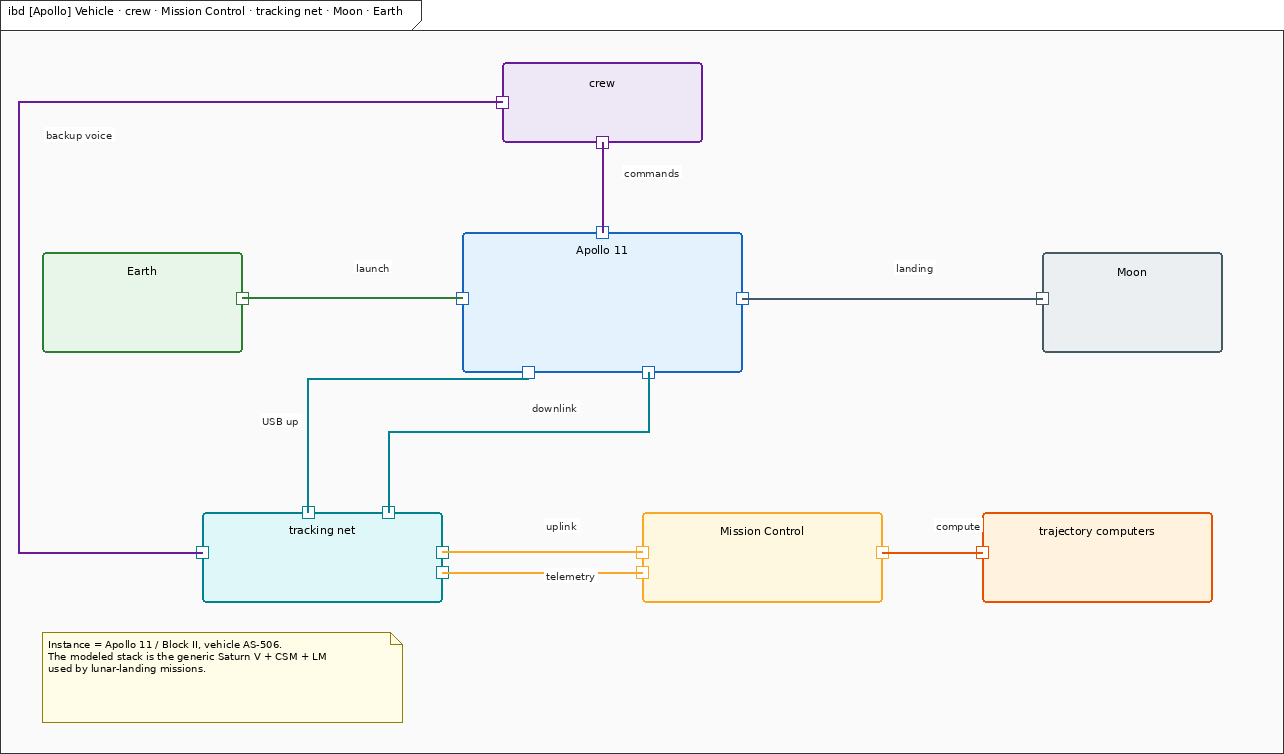
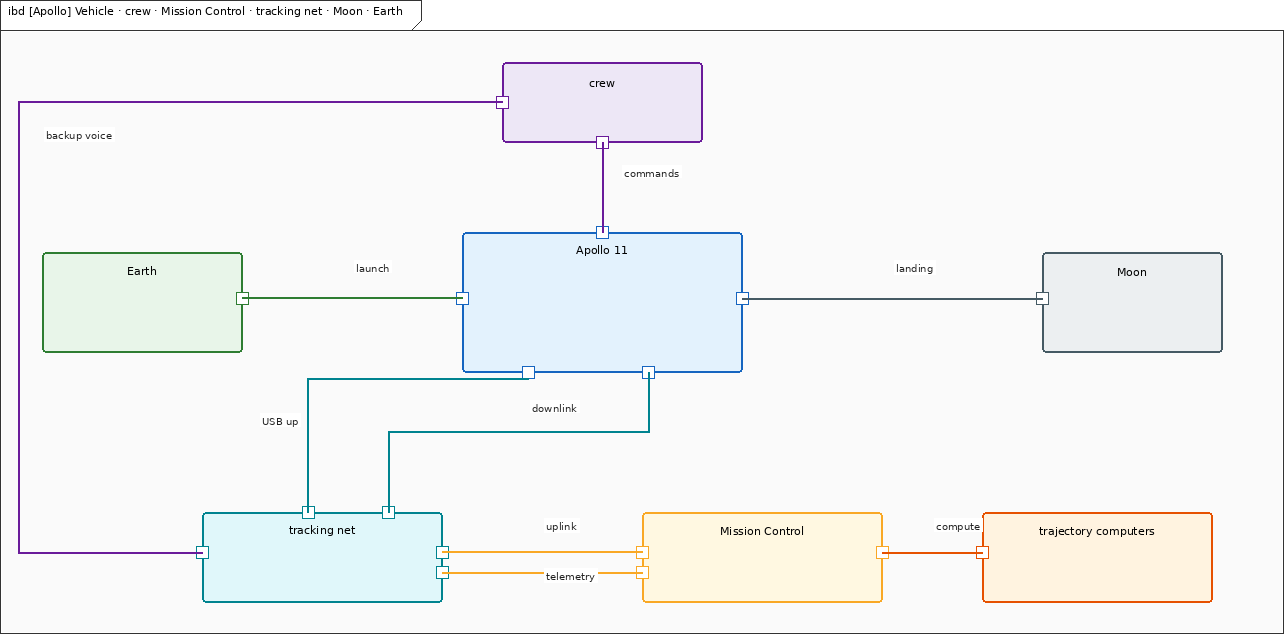
Drop the teaching-class opener and the yellow instance box on ctx.
The note now reads as a note. Instance stays in the existing sentences.
apollo-bdd is unchanged.

diff --git a/tests/test_apollo_example.py b/tests/test_apollo_example.py
@@ -3,6 +3,7 @@
 from __future__ import annotations
 
 import hashlib
+import re
 import unittest
 from pathlib import Path
 
@@ -727,16 +728,20 @@ class ApolloExampleTests(unittest.TestCase):
             "Apollo.Note.ProgramAlarm",
             "Apollo.Note.UnknownRope",
         }
-        for stem in ("apollo-usb", "apollo-lgc-stm", "apollo-sat-ibd"):
+        for stem in ("apollo-usb", "apollo-lgc-stm", "apollo-sat-ibd", "apollo-ctx"):
             diagram = read_json_file(APOLLO / f"{stem}.msmd")["diagram"]
             for el in diagram["elements"]:
+                fill = el.get("style", {}).get("fill_color", "").upper()
+                self.assertNotIn(fill, yellow, f"{stem} {el['id']}")
                 if el.get("type") in {"comment", "note"}:
-                    fill = el.get("style", {}).get("fill_color", "").upper()
-                    self.assertNotIn(fill, yellow, f"{stem} {el['id']}")
                     self.assertNotIn(el.get("model_ref"), shop, f"{stem} {el['id']}")
+                    self.assertNotEqual(stem, "apollo-ctx", f"{stem} {el['id']}")
         note = (APOLLO / "architecture-summary.md").read_text(encoding="utf-8")
         self.assertIn("Do not collapse the Instrument Unit", note)
         self.assertIn("Path A, Path B, and crew-selected antennas stay in the sentences here", note)
+        self.assertNotIn("design class", note)
+        self.assertNotIn("lecture", note.lower())
+        self.assertIsNone(re.search(r"\bclass\b", note, flags=re.IGNORECASE))
 
     def test_figure_must_closes_abort_boxes_separate(self) -> None:
         diagram = read_json_file(APOLLO / "apollo-abort.msmd")["diagram"]

diff --git a/projects/apollo/architecture-summary.md b/projects/apollo/architecture-summary.md
@@ -1,6 +1,6 @@
 # Apollo 11 / Block II on vehicle AS-506
 
-On 20 May 1969, Saturn V serial SA-506 rolled out of the Vehicle Assembly Building (VAB) at the National Aeronautics and Space Administration (NASA) Kennedy Space Center (KSC) toward Launch Complex 39A (LC-39A). Two months later that same stack lifted three men toward the Moon (NASA, 1969, May 20). Read the flown system the way a design class reads a system: who needed it, what it had to do, which parts did the work, and how the flight ran in time.
+On 20 May 1969, Saturn V serial SA-506 rolled out of the Vehicle Assembly Building (VAB) at the National Aeronautics and Space Administration (NASA) Kennedy Space Center (KSC) toward Launch Complex 39A (LC-39A). Two months later that same stack lifted three men toward the Moon (NASA, 1969, May 20). Read the flown system the way a note reads a system: who needed it, what it had to do, which parts did the work, and how the flight ran in time.
 
 The launch vehicle is Saturn V SA-506, built as first stage S-IC-6, second stage S-II-6, third stage S-IVB-6N, and Instrument Unit IU-6. The spacecraft-lunar module adapter is SLA-14. The command and service module is CSM-107. The lunar module is LM-5. Apollo 7, 8, 10, and 13 are notes, not separate projects (7 had no Lunar Module (LM); 8 and 10 did not land; 13 aborted). Namespace `Apollo`. File stem `apollo`. A few values, including an official Command/Service Module (CSM) lunar Δv table, stay unmarked on purpose.
 
